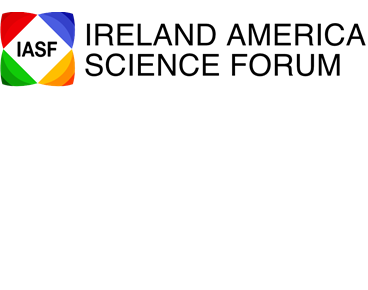
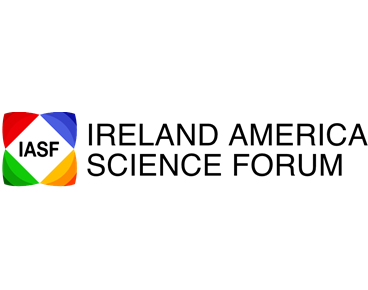
PJ - Sponsors

diff --git a/sponsors.html b/sponsors.html
@@ -74,6 +74,7 @@
                 </div>
                 <div class="col-lg-9 intro">
                     <h6 class="barlow">About European Cancer Organisation</h6>
+                    <p class="barlow">The European Cancer Organisation aims to create and develop ever-strengthening relationships between European institutions and the European cancer care community, and together with our Member Societies, Patient Advisory Committee and networks, facilitate collaboration and consensus on focused topics towards tangible and impactful policy improvement.</p>
                     <p class="barlow">To reduce the burden of cancer, improve outcomes and the quality of care for cancer patients, through multidisciplinarity and multiprofessionalism.</p>
                     <p class="barlow">As the not-for-profit federation of member organisations working in cancer at a European level, they convene oncology professionals and patients to agree policy, advocate for positive change and be the united voice of the European cancer community.</p>
                 </div>
@@ -86,13 +87,21 @@
                     <p class="barlow">ESO was originally founded in 1982 by Umberto Veronesi and Laudomia Del Drago who were passionate about reducing the number of cancer deaths as a result of late diagnosis or inadequate treatment.</p>
                     <p class="barlow">Today they are continuing that passion by providing oncology education that helps improve the treatment of cancer patients. Through our extensive learning programmes, we’re reaching areas where education is most needed, both geographically and scientifically.</p>
                 </div>
-                <div class="col-lg-2 mx-auto intro">
+                <div class="col-lg-3 mx-auto intro">
                     <h6 class="text-center barlow">Silver Sponsor</h6>
                     <img class="img-fluid mx-auto d-block" src="./img/Irish_Cancer_Society.jpg" alt="ICS">
                 </div>
                 <div class="col-lg-9 intro">
                     <h6 class="barlow">About Irish Cancer Society</h6>
                     <p class="barlow">Irish Cancer Society are a community of patients, survivors, volunteers, supporters, health and social care professionals and researchers. Together they are transforming the experiences and outcomes of people affected by cancer through their advocacy, support services and research.</p>
+                </div>
+                <div class="col-lg-3 mx-auto intro">
+                    <h6 class="text-center barlow">Silver Sponsor</h6>
+                    <img class="img-fluid mx-auto d-block" src="./img/IASF.png" alt="IASF">
+                </div>
+                <div class="col-lg-9 intro">
+                    <h6 class="barlow">Ireland America Science Forum</h6>
+                    <p class="barlow">The Ireland America Science Forum (IASF) was created in 2019 to strengthen existing and build new connections among scientists in North America and Northern Ireland and the Republic of Ireland.  By disseminating information on funding and employment opportunities, enhancing bi/multilateral partnerships through representation, promoting mentorship of Irish students and scientists in academia and industry, IASF provides a forum for discussion and representation in trans-Atlantic science activities and policy.</p>
                 </div>
             </div>
         </div>
